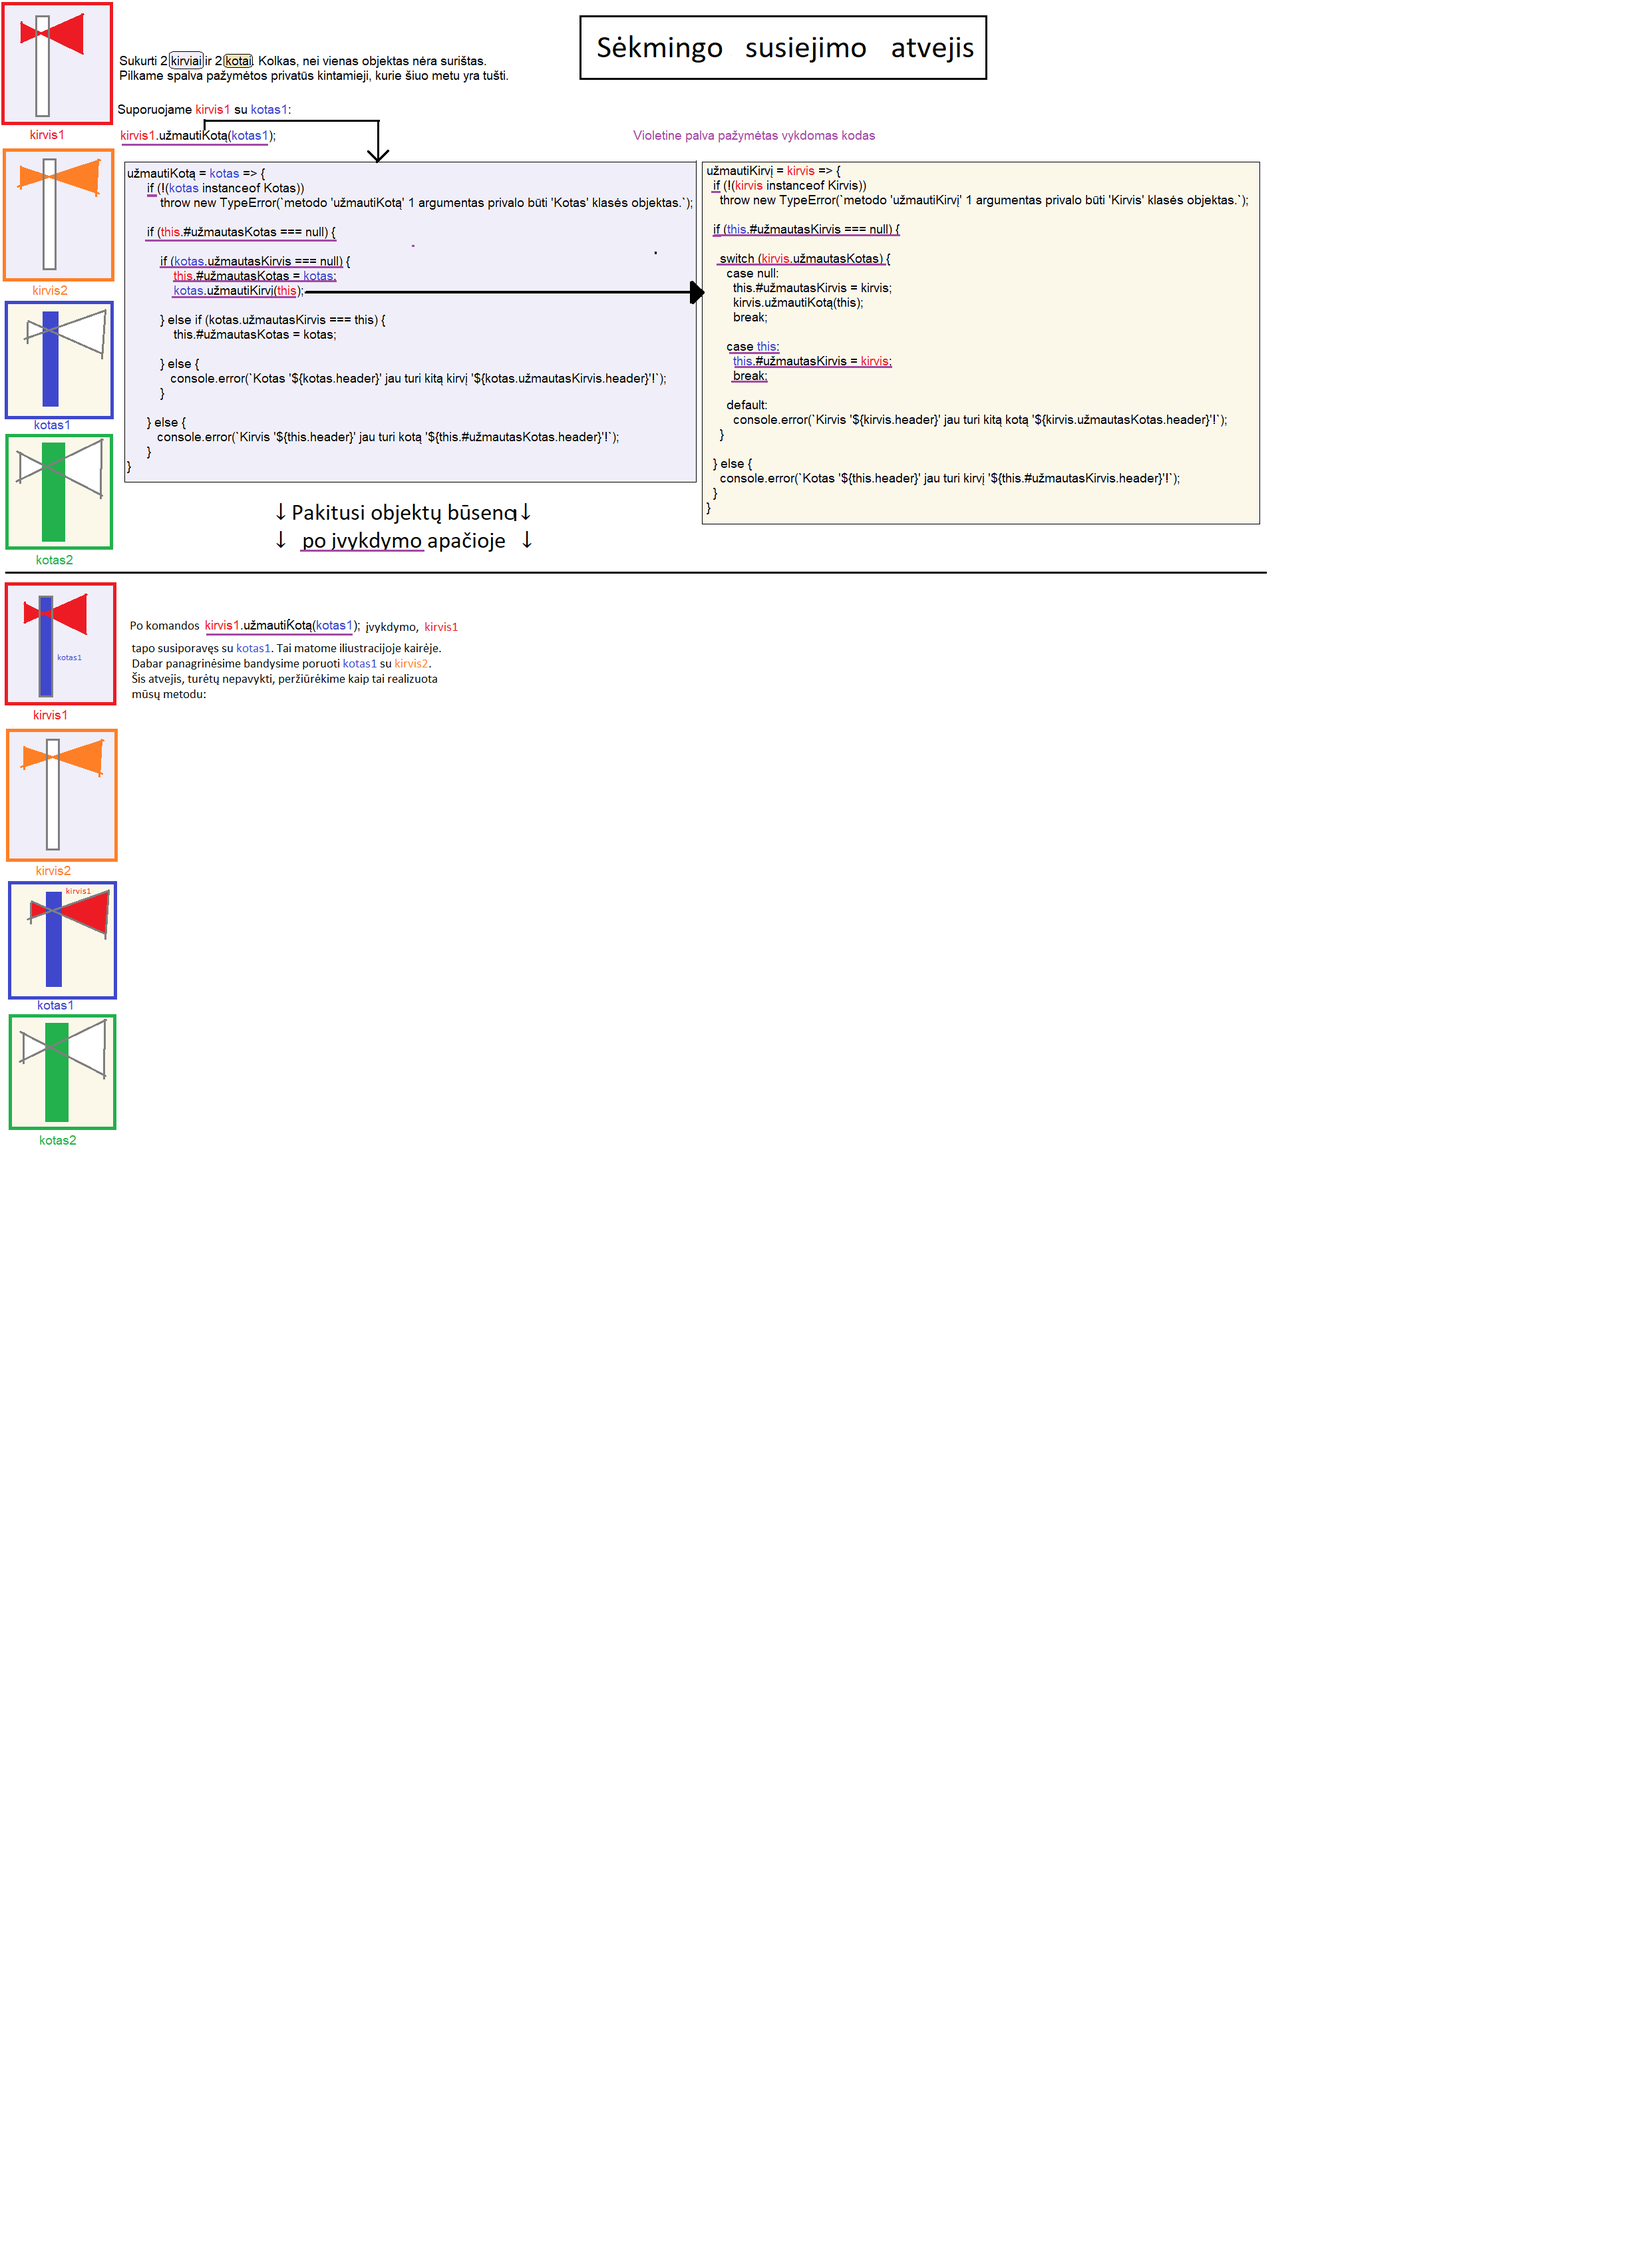
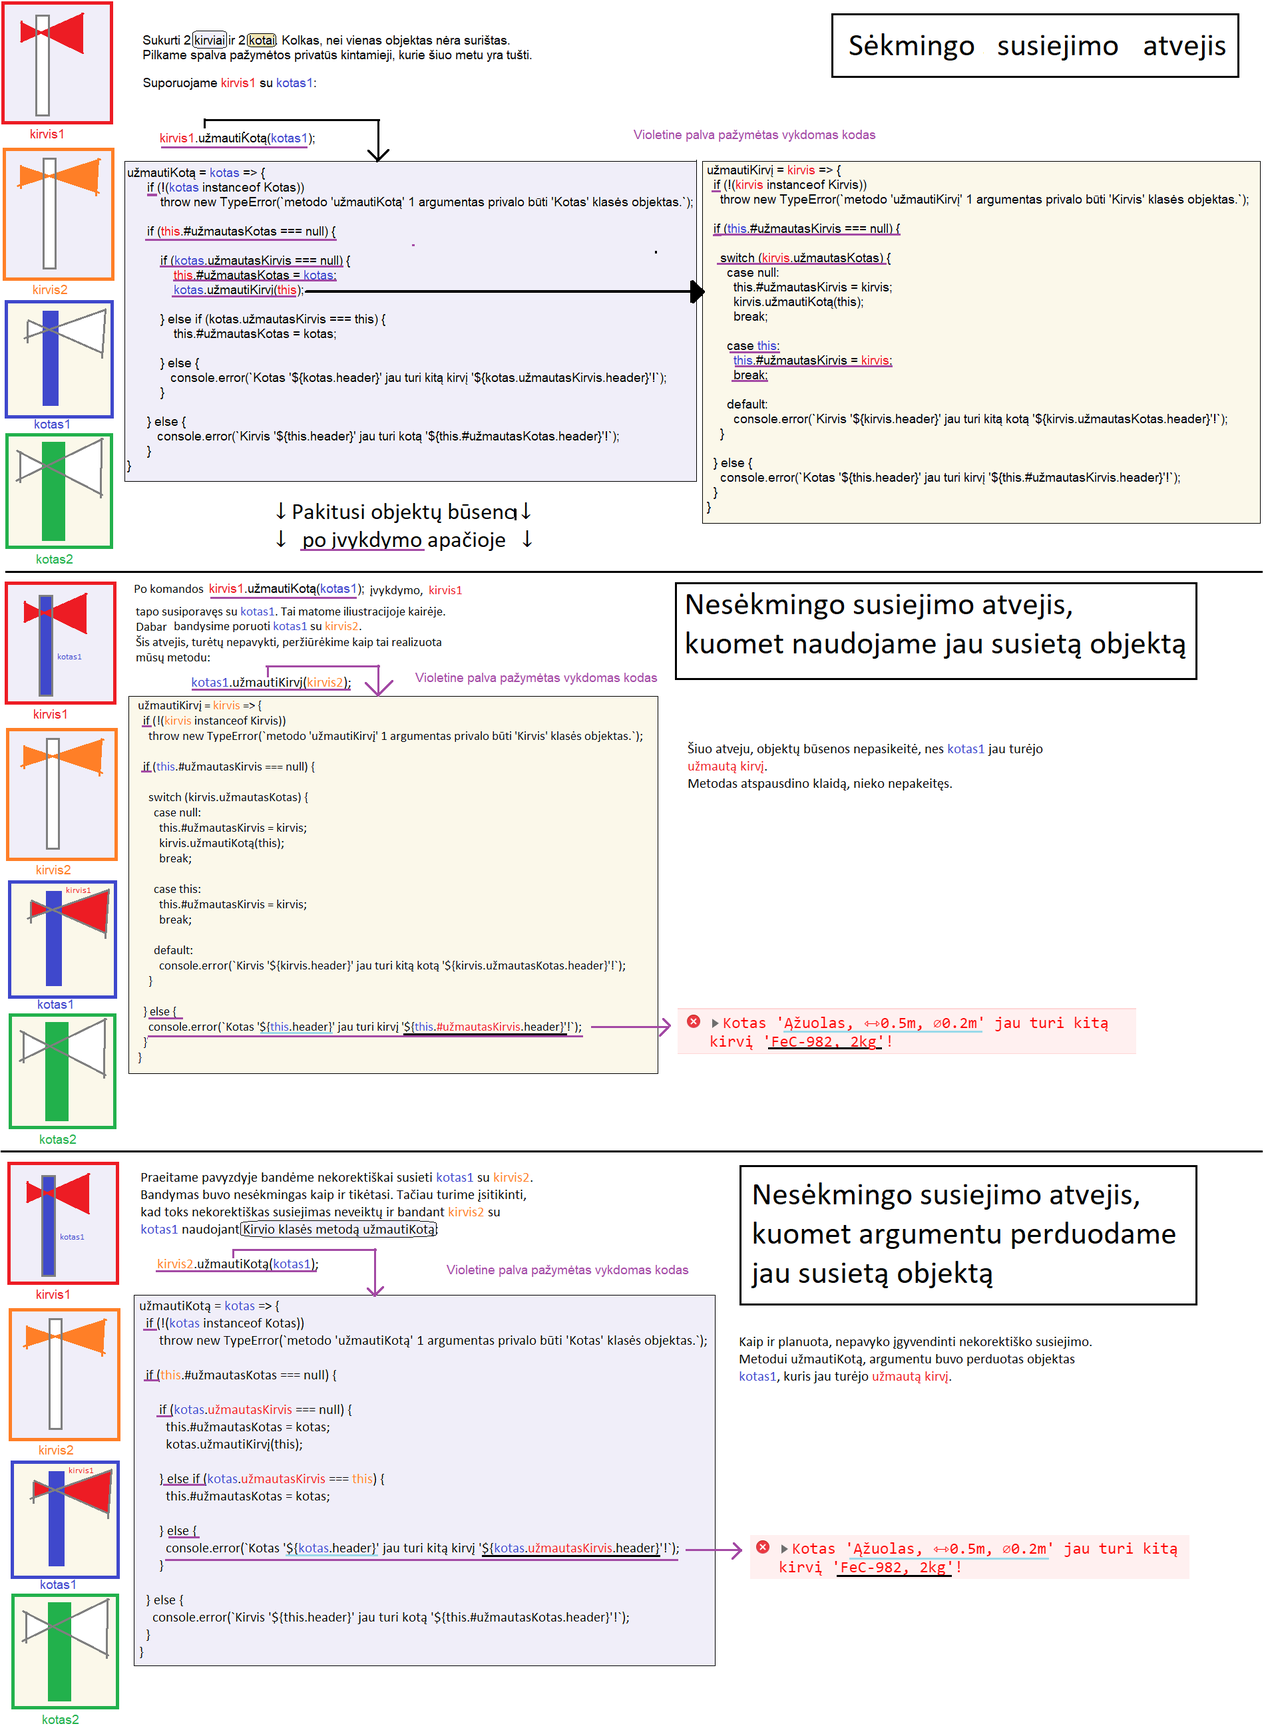
lesson 34: usuccessfull binding using binded argument

diff --git a/JavaScript/34 pamoka - oop kompozicija 2/teorija/oop-composition.js b/JavaScript/34 pamoka - oop kompozicija 2/teorija/oop-composition.js
@@ -162,29 +162,3 @@ console.group('1:1 - one-to-one');
   console.log(kotas2.info);
 }
 console.groupEnd();
-
-
-užmautiKirvį = kirvis => {
-  if (!(kirvis instanceof Kirvis)) 
-    throw new TypeError(`metodo 'užmautiKirvį' 1 argumentas privalo būti 'Kirvis' klasės objektas.`);
-
-  if (this.#užmautasKirvis === null) {
-
-    switch (kirvis.užmautasKotas) {
-      case null:
-        this.#užmautasKirvis = kirvis;
-        kirvis.užmautiKotą(this);
-        break;
-
-      case this:
-        this.#užmautasKirvis = kirvis;
-        break;
-
-      default:
-        console.error(`Kirvis '${kirvis.header}' jau turi kitą kotą '${kirvis.užmautasKotas.header}'!`);
-    }
-
-  } else {
-    console.error(`Kotas '${this.header}' jau turi kirvį '${this.#užmautasKirvis.header}'!`);
-  }
-}
